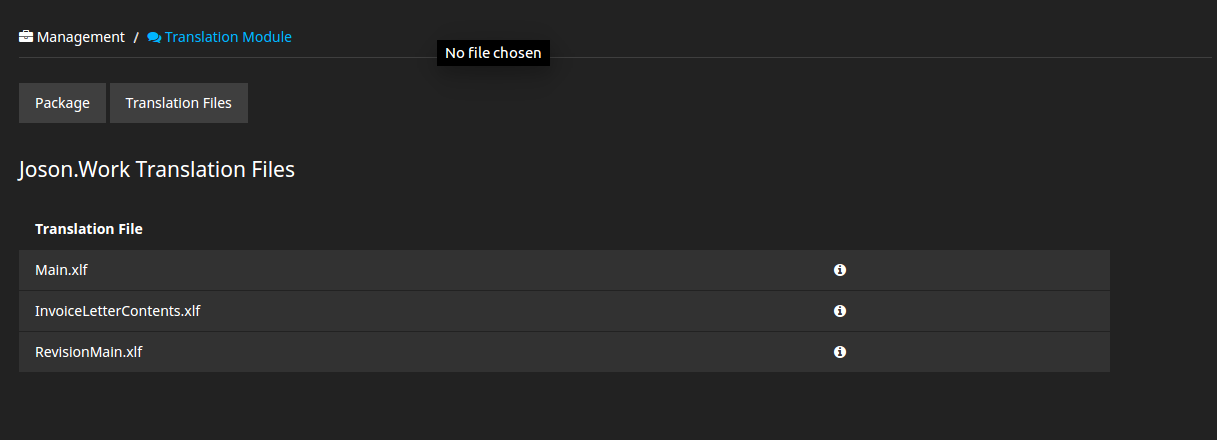
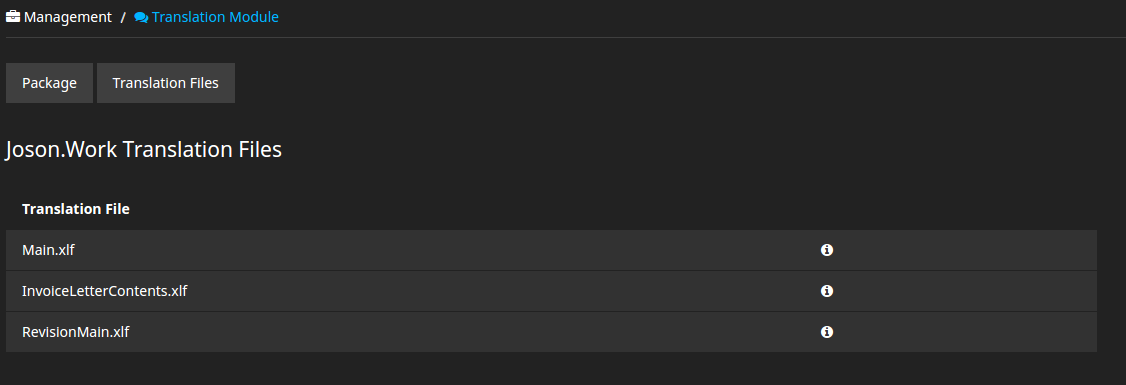
README file updation

diff --git a/README.md b/README.md
@@ -29,5 +29,7 @@ php ./flow typo3.flow:cache:warmup
 -   Open your NEOS CMS site backend, then you can see **Translation Module** under **Management** main module.
 
 ## Plugin Details
--   You can see list of translation files contained packages.
+-   First page of this backend plugin contains a list of packages that contain translation files.
 ![Image](translationHelperScreenshoot/packageList.png)
+-   If a user click any of the package, then this particular user enters into the translation files list page. The below screenshot shows the list of translation files inside **Joson.Work** package.
+![Image](translationHelperScreenshoot/translationFiles.png)
